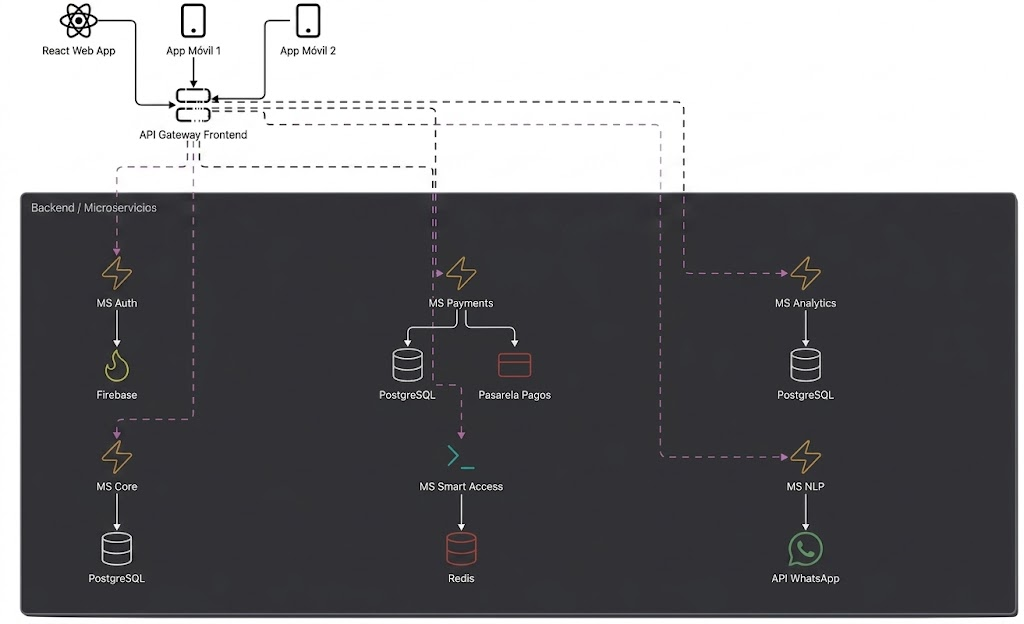
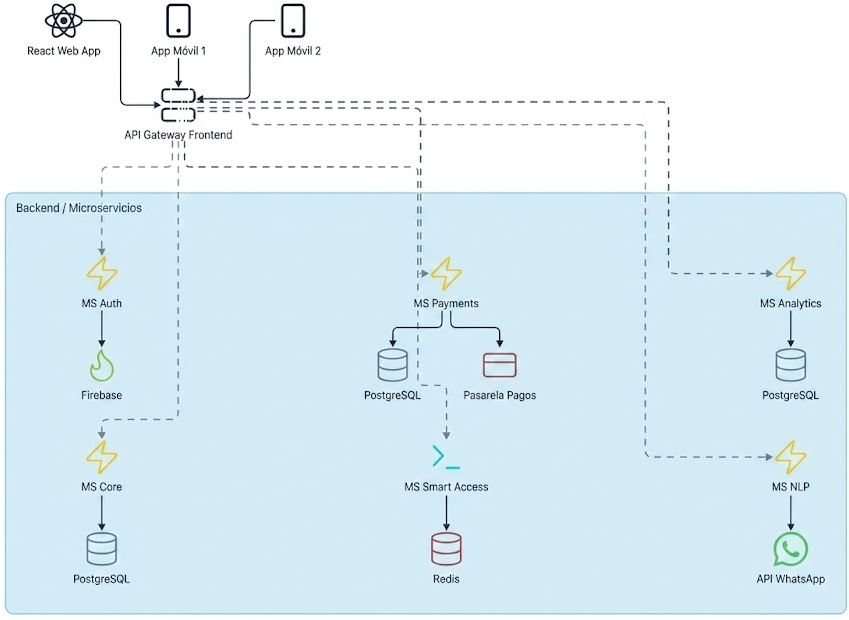
Diagramas de arquitectura mejorados visualmente

diff --git a/anexos/arquitectura-simplificado/tex/anexo.tex b/anexos/arquitectura-simplificado/tex/anexo.tex
@@ -10,7 +10,7 @@ A continuación, se presentan los diagramas correspondientes a los niveles de Co
 \begin{figure}[h!]
     \centering
     % Nota: Las comillas en el nombre del archivo evitan errores de compilación por los espacios
-    \includegraphics[width=\textwidth]{img/c4_model/C4 Nivel 1.jpg}
+    \includegraphics[width=\textwidth]{img/c4_model/C4 Nivel 1.png}
     \caption{Diagrama C4 nivel 1: Contexto del sistema. Interacción de la plataforma SocioUnido con los distintos actores (Socios, Dirigencia, Personal de Control) y sistemas externos (Pasarela de Pagos, Interfaz de Programación de Aplicaciones [API] de WhatsApp).}
     \label{fig:c4_nivel1}
 \end{figure}